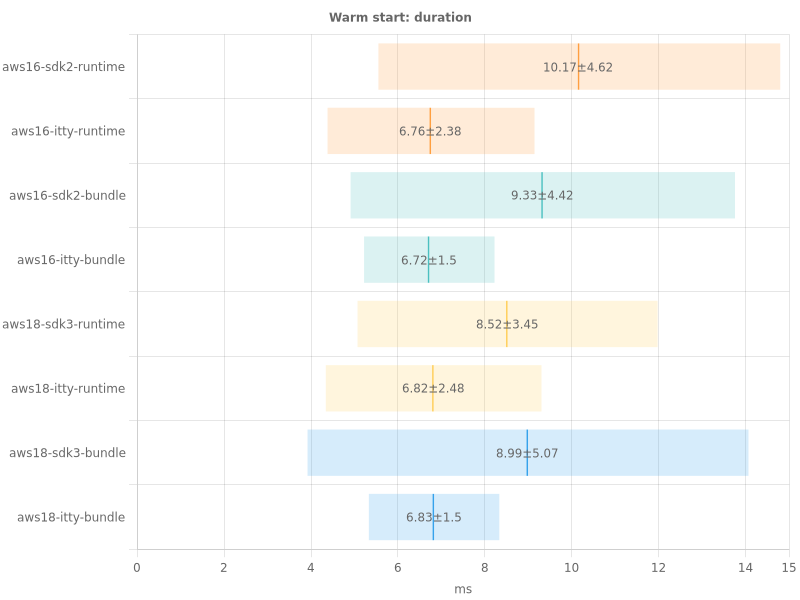
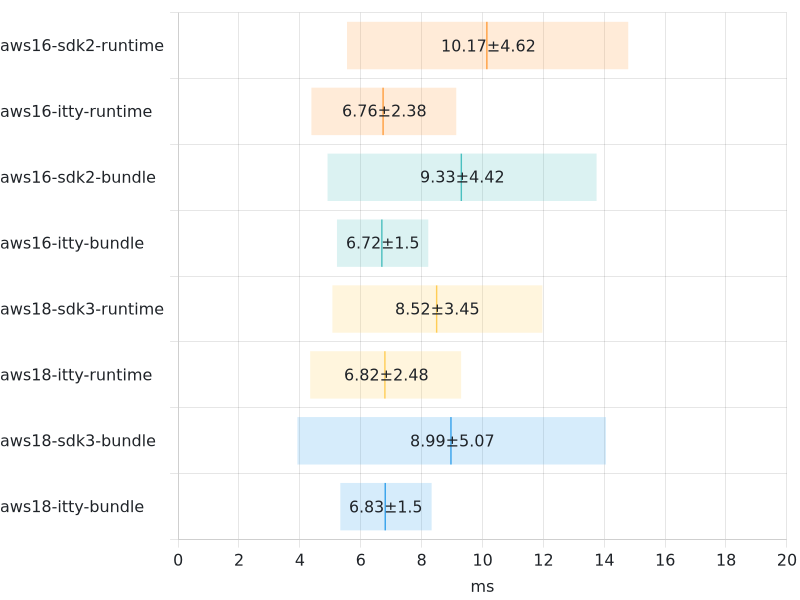
feat: generate markdown report

diff --git a/benchmark/scripts/report.ts b/benchmark/scripts/report.ts
@@ -25,7 +25,6 @@ const createChart = async (props: {
   min: number;
   offsetData: number[];
   rightData: number[];
-  title: string;
   unit: string;
   datalabels: string[];
 }) => {
@@ -38,7 +37,6 @@ const createChart = async (props: {
     indexAxis: "y",
     scales: {
       x: {
-        // type: "logarithmic",
         stacked: true,
         max: props.max,
         min: props.min,
@@ -49,12 +47,18 @@ const createChart = async (props: {
       },
       y: {
         stacked: true,
+        ticks: {
+          crossAlign: "far",
+        },
       },
     },
     plugins: {
       title: {
-        display: true,
-        text: props.title,
+        display: false,
+        align: "start",
+        font: {
+          size: 20,
+        },
       },
       legend: {
         display: false,
@@ -111,7 +115,9 @@ const createChart = async (props: {
   const height = 600;
   const backgroundColour = "white";
   const chartCallback: ChartCallback = (ChartJS) => {
-    ChartJS.defaults.responsive = true;
+    ChartJS.defaults.color = "rgba(31, 35, 40)";
+    ChartJS.defaults.font.size = 16;
+    ChartJS.defaults.responsive = false;
     ChartJS.defaults.maintainAspectRatio = false;
   };
   const chartJSNodeCanvas = new ChartJSNodeCanvas({
@@ -130,6 +136,71 @@ const createChart = async (props: {
   });
   await fsPromises.writeFile(filePath, buffer, "base64");
 };
+
+function generateCharts(
+  datasetType: string,
+  datasets: Record<string, Record<string, any>>,
+  gitBranch: string
+) {
+  for (const key in datasets) {
+    const labels: string[] = [];
+    const datalabels: string[] = [];
+    const backgroundColors: string[] = [];
+    const borderColors: string[] = [];
+    const offsetData: number[] = [];
+    const leftData: number[] = [];
+    const rightData: number[] = [];
+    let max = 0;
+    let min = Infinity;
+    console.log(`  - ${datasetType} : ${key}`);
+    const dataset = Object.fromEntries(
+      Object.entries(datasets[key as keyof typeof datasets]).sort(
+        (a, b) => a[1].order - b[1].order
+      )
+    );
+    for (const key in dataset) {
+      if (dataset[key].data) {
+        const { label, mean, standardDeviation } = dataset[key];
+        labels.push(label);
+        datalabels.push(`${mean}±${standardDeviation}`);
+        backgroundColors.push(
+          CONFIG.functions.reduce(
+            (prev, curr) =>
+              curr.functionName === key ? curr.chart.backgroundColor : prev,
+            ""
+          )
+        );
+        borderColors.push(
+          CONFIG.functions.reduce(
+            (prev, curr) =>
+              curr.functionName === key ? curr.chart.borderColor : prev,
+            ""
+          )
+        );
+        offsetData.push(mean - standardDeviation);
+        leftData.push(standardDeviation);
+        rightData.push(standardDeviation);
+        max = Math.max(max, mean + standardDeviation);
+        min = Math.min(min, mean - standardDeviation);
+      }
+    }
+    createChart({
+      backgroundColors,
+      borderColors,
+      datalabels,
+      datasetName: key,
+      datasetType,
+      gitBranch,
+      labels,
+      leftData,
+      max: Math.ceil(max / 10) * 10,
+      min: Math.floor(min / 5) * 5,
+      offsetData,
+      rightData,
+      unit: key === "maxMemory" ? "MB" : "ms",
+    });
+  }
+}
 
 async function main() {
   const start = performance.now();
@@ -155,6 +226,11 @@ async function main() {
     CONFIG.logs.outputFolder,
     `${gitBranch}/consolidated.json`
   );
+  const reportFilePath = path.join(
+    __dirname,
+    CONFIG.logs.outputFolder,
+    `${gitBranch}/README.md`
+  );
   console.log(
     `Generate report for branch '${gitBranch}' ${gitTag ? `(${gitTag})` : ""}`
   );
@@ -173,132 +249,60 @@ async function main() {
 
   console.log(`- Read raw data`);
   let {
+    time,
     datasets: { coldStarts, warmStarts },
   }: IResult = JSON.parse(
     await fsPromises.readFile(consolidatedFilePath, "utf8")
   );
 
   console.log(`- Generate the charts for`);
-  for (const coldStartsKey in coldStarts) {
-    const labels: string[] = [];
-    const datalabels: string[] = [];
-    const backgroundColors: string[] = [];
-    const borderColors: string[] = [];
-    const offsetData: number[] = [];
-    const leftData: number[] = [];
-    const rightData: number[] = [];
-    let max = 0;
-    let min = Infinity;
-    console.log(`  - Cold starts : ${coldStartsKey}`);
-    const dataset = Object.fromEntries(
-      Object.entries(coldStarts[coldStartsKey as keyof typeof coldStarts]).sort(
-        (a, b) => a[1].order - b[1].order
-      )
-    );
-    for (const key in dataset) {
-      if (dataset[key].data) {
-        const { label, mean, standardDeviation } = dataset[key];
-        labels.push(label);
-        datalabels.push(`${mean}±${standardDeviation}`);
-        backgroundColors.push(
-          CONFIG.functions.reduce(
-            (prev, curr) =>
-              curr.functionName === key ? curr.chart.backgroundColor : prev,
-            ""
-          )
-        );
-        borderColors.push(
-          CONFIG.functions.reduce(
-            (prev, curr) =>
-              curr.functionName === key ? curr.chart.borderColor : prev,
-            ""
-          )
-        );
-        offsetData.push(mean - standardDeviation);
-        leftData.push(standardDeviation);
-        rightData.push(standardDeviation);
-        max = Math.max(max, mean + standardDeviation);
-        min = Math.min(min, mean - standardDeviation);
-      }
-    }
-    createChart({
-      backgroundColors,
-      borderColors,
-      datalabels,
-      datasetName: coldStartsKey,
-      datasetType: "coldStarts",
-      gitBranch,
-      labels,
-      leftData,
-      max: Math.ceil(max / 10) * 10,
-      min: Math.floor(min / 5) * 5,
-      offsetData,
-      rightData,
-      title: dataset.title,
-      unit: coldStartsKey === "maxMemory" ? "MB" : "ms",
-    });
-  }
+  generateCharts("coldStarts", coldStarts, gitBranch);
+  generateCharts("warmStarts", warmStarts, gitBranch);
 
-  for (const warmStartsKey in warmStarts) {
-    const labels: string[] = [];
-    const datalabels: string[] = [];
-    const backgroundColors: string[] = [];
-    const borderColors: string[] = [];
-    const offsetData: number[] = [];
-    const leftData: number[] = [];
-    const rightData: number[] = [];
-    let max = 0;
-    let min = Infinity;
-    console.log(`  - Warm starts : ${warmStartsKey}`);
-    const dataset = Object.fromEntries(
-      Object.entries(warmStarts[warmStartsKey as keyof typeof warmStarts]).sort(
-        (a, b) => a[1].order - b[1].order
-      )
-    );
-    for (const key in dataset) {
-      if (dataset[key].data) {
-        const { label, mean, standardDeviation } = dataset[key];
-        labels.push(label);
-        datalabels.push(`${mean}±${standardDeviation}`);
-        backgroundColors.push(
-          CONFIG.functions.reduce(
-            (prev, curr) =>
-              curr.functionName === key ? curr.chart.backgroundColor : prev,
-            ""
-          )
-        );
-        borderColors.push(
-          CONFIG.functions.reduce(
-            (prev, curr) =>
-              curr.functionName === key ? curr.chart.borderColor : prev,
-            ""
-          )
-        );
-        offsetData.push(mean - standardDeviation);
-        leftData.push(standardDeviation);
-        rightData.push(standardDeviation);
-        max = Math.max(max, mean + standardDeviation);
-        min = Math.min(min, mean - standardDeviation);
-      }
-    }
-    createChart({
-      backgroundColors,
-      borderColors,
-      datalabels,
-      datasetName: warmStartsKey,
-      datasetType: "warmStarts",
-      gitBranch,
-      labels,
-      leftData,
-      max: Math.ceil(max / 5) * 5,
-      min: Math.floor(min / 5) * 5,
-      offsetData,
-      rightData,
-      title: dataset.title,
-      unit: warmStartsKey === "maxMemory" ? "MB" : "ms",
-    });
-  }
+  console.log(`\nGenerate README.md`);
+  const content = `
+# Benchmark report
 
+- Branch: ${gitBranch}${gitTag ? ` (v${gitTag})` : ""}
+- Date: ${new Date(time.end).toLocaleString()}
+
+## Cold starts
+
+### Cold starts total duration
+![coldStarts-totalDuration](./coldStarts-totalDuration.png)
+
+### Cold starts init duration
+![coldStarts-initDuration](./coldStarts-initDuration.png)
+
+### Cold starts duration
+![coldStarts-duration](./coldStarts-duration.png)
+
+### Cold starts API call latency
+![coldStarts-apiCallLatency](./coldStarts-apiCallLatency.png)
+
+### Cold starts HTTP Request latency
+![coldStarts-httpRequestLatency](./coldStarts-httpRequestLatency.png)
+
+### Cold starts max memory
+![coldStarts-maxMemory](./coldStarts-maxMemory.png)
+
+## Warm starts
+
+### Warm starts duration
+![warmStarts-duration](./warmStarts-duration.png)
+
+### Warm starts API call latency
+![warmStarts-apiCallLatency](./warmStarts-apiCallLatency.png)
+
+
+### Warm starts HTTP request latency
+![warmStarts-httpRequestLatency](./warmStarts-httpRequestLatency.png)
+
+### Warm starts max memory
+![warmStarts-maxMemory](./warmStarts-maxMemory.png)
+
+`;
+  await fsPromises.writeFile(reportFilePath, content, "utf-8");
   const duration = performance.now() - start;
   console.log(`\nDone in ${round(duration)}ms.`);
 }

diff --git a/benchmark/data/jpb-benchmark/README.md b/benchmark/data/jpb-benchmark/README.md
@@ -1,0 +1,41 @@
+
+# Benchmark report
+
+- Branch: jpb-benchmark
+- Date: 4/16/2023, 2:51:58 PM
+
+## Cold starts
+
+### Cold starts total duration
+![coldStarts-totalDuration](./coldStarts-totalDuration.png)
+
+### Cold starts init duration
+![coldStarts-initDuration](./coldStarts-initDuration.png)
+
+### Cold starts duration
+![coldStarts-duration](./coldStarts-duration.png)
+
+### Cold starts API call latency
+![coldStarts-apiCallLatency](./coldStarts-apiCallLatency.png)
+
+### Cold starts HTTP Request latency
+![coldStarts-httpRequestLatency](./coldStarts-httpRequestLatency.png)
+
+### Cold starts max memory
+![coldStarts-maxMemory](./coldStarts-maxMemory.png)
+
+## Warm starts
+
+### Warm starts duration
+![warmStarts-duration](./warmStarts-duration.png)
+
+### Warm starts API call latency
+![warmStarts-apiCallLatency](./warmStarts-apiCallLatency.png)
+
+
+### Warm starts HTTP request latency
+![warmStarts-httpRequestLatency](./warmStarts-httpRequestLatency.png)
+
+### Warm starts max memory
+![warmStarts-maxMemory](./warmStarts-maxMemory.png)
+
